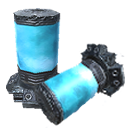
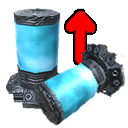
bug lors de l'édition, pas d'idée

Changed region(s): [[0.5, 0.0625, 0.7812, 0.5312]]

diff --git a/Assets/Systems/LevelGenerator.cs b/Assets/Systems/LevelGenerator.cs
@@ -346,7 +346,7 @@ public class LevelGenerator : FSystem {
 
     private void createBattery(int gridX, int gridY, Direction.Dir orientation)
     {
-        GameObject battery = GameObject.Instantiate<GameObject>(Resources.Load("Prefabs/Battery/PileOfBatteries") as GameObject, LevelGO.transform.position + new Vector3(gridY * 3, 3, gridX * 3), Quaternion.Euler(0, 0, 0), LevelGO.transform);
+        GameObject battery = GameObject.Instantiate<GameObject>(Resources.Load("Prefabs/PileOfBatteries") as GameObject, LevelGO.transform.position + new Vector3(gridY * 3, 3, gridX * 3), Quaternion.Euler(0, 0, 0), LevelGO.transform);
 
         battery.GetComponent<Position>().x = gridX;
         battery.GetComponent<Position>().y = gridY;

diff --git a/Assets/Systems/LevelEditor/TilePopupSystem.cs b/Assets/Systems/LevelEditor/TilePopupSystem.cs
@@ -144,7 +144,11 @@ public class TilePopupSystem : FSystem
 					}
 					furniturePopup.GetComponentInChildren<TMP_Dropdown>().value = i;
 					break;
-			}
+                case Battery battery:
+                    // enable popups
+                    GameObjectManager.setGameObjectState(orientationPopup, true);
+                    break;
+            }
 		}
 
 		if (selectedObject != null)

diff --git a/Assets/Systems/LevelEditor/EditorGridSystem.cs b/Assets/Systems/LevelEditor/EditorGridSystem.cs
@@ -464,8 +464,6 @@ public class DecorationObject : FloorObject
 
 public class Battery : FloorObject
 {
-    public string path;
-
     public Battery(Direction.Dir orientation, int line, int col) : base(Cell.Battery, orientation, line, col)
     {
     }
